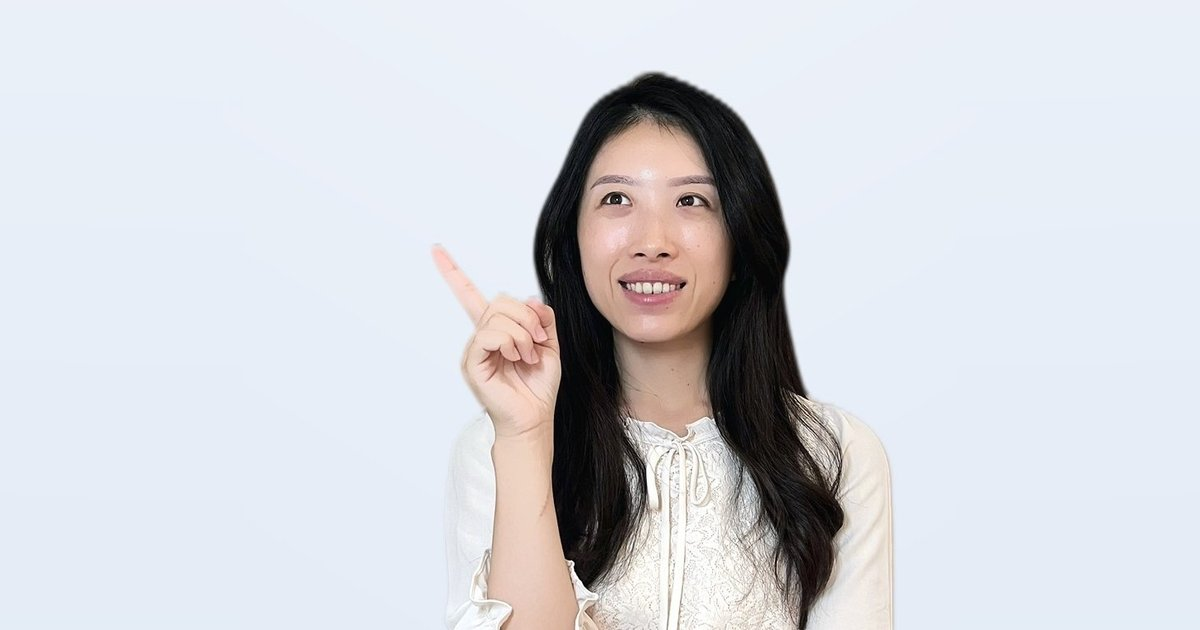
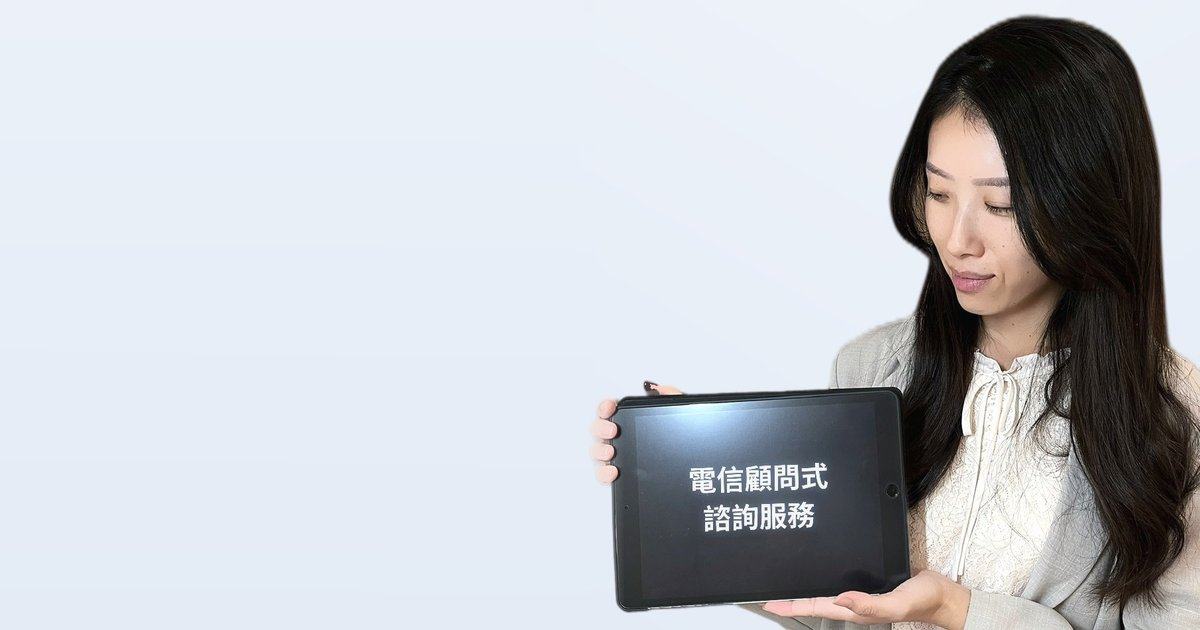
Share image: tablet photo
Claude-Session: https://claude.ai/code/session_01JAiqQkqjuFdidntcxi5Rha

diff --git a/index.html b/index.html
@@ -9,7 +9,7 @@
 <meta property="og:description" content="顧問式諮詢服務｜電信新辦・攜碼・續約，預約制實體辦理">
 <meta property="og:type" content="website">
 <meta property="og:url" content="https://1123junlin.github.io/chafairy/">
-<meta property="og:image" content="https://1123junlin.github.io/chafairy/images/og.jpg?v=4">
+<meta property="og:image" content="https://1123junlin.github.io/chafairy/images/og.jpg?v=5">
 <meta property="og:locale" content="zh_TW">
 <meta name="twitter:card" content="summary_large_image">
 <link rel="canonical" href="https://1123junlin.github.io/chafairy/">
